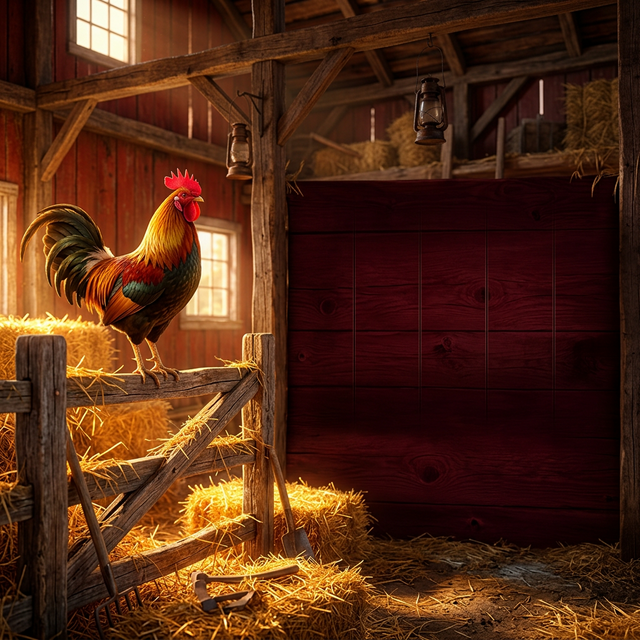
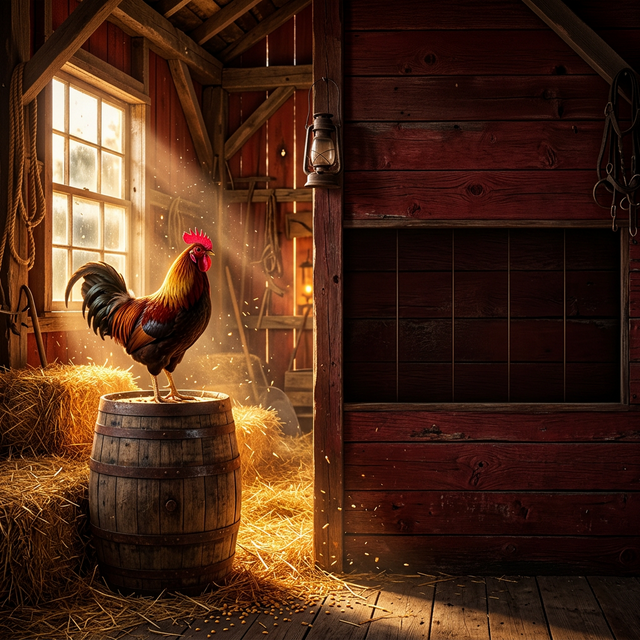
feat(assets): hero visual polish pass beta 3 with new UI controls and VFX

diff --git a/Gamesv1/games/7000/assets/providers/nanobanana/MANIFEST.md b/Gamesv1/games/7000/assets/providers/nanobanana/MANIFEST.md
@@ -1,24 +1,39 @@
-# MANIFEST
+# NanoBanana Provider
 
-Provider root: `Gamesv1/games/7000/assets/providers/nanobanana`
+**Theme:** Crazy Rooster Hold&Win (Beta 3 Hero Polish)
+**Status:** Active Hero Visuals (Partial due to API Quota block on Symbols)
 
-## Runtime Status
+## Manifest
 
-- Source branch: `origin/assets/7000-nanobanana-crazy-rooster-phase1-20260307-1358`
-- Original source path on that branch: `Gamesv1/games/7000/raw-assets/providers/nanobanana`
-- This repo folder is a QA-beta assembly created from those committed source files.
-- `atlas_vfx.png` / `atlas_vfx.json` were not supplied on the source branch and are intentionally absent here.
+This provider pack contains standard layout assets plus the Beta 3 Hero visual upgrades.
 
-## Committed Runtime Files
+### Core Backgrounds
+* `background-desktop-1920x1080.png` (Upgraded to Hero Quality)
+* `background-landscape-safe-1600x900.png` (Upgraded to Hero Quality)
+* `background-portrait-1080x1920.png` (Upgraded to Hero Quality)
 
-- `runtime/background-desktop-1920x1080.png`
-- `runtime/background-landscape-safe-1600x900.png`
-- `runtime/background-portrait-1080x1920.png`
-- `runtime/atlas_symbols.png`
-- `runtime/atlas_symbols.json`
-- `runtime/atlas_ui.png`
-- `runtime/atlas_ui.json`
+### Render Atlases
+#### `atlas_ui` / `atlas_hero_ui`
+UI framing and button controls.
+**New keys added in Beta 3 Hero Pass:**
+* `jackpot-plaque-grand`
+* `jackpot-plaque-major`
+* `jackpot-plaque-minor`
+* `jackpot-plaque-mini`
+* `mascot-rooster`
+* `button-turbo`
+* `button-autoplay`
+* `button-settings`
+* `button-history`
+* `button-sound`
+* `button-buybonus` (Upgraded Hero version)
 
-## Validation Note
+#### `atlas_symbols`
+Slot symbols and collectible entities.
+Contains full fallback keys. (Hero Symbol upgrade blocked by generation quota limits)
 
-The QA runtime should validate this pack at startup and log a clear warning that NanoBanana is missing a committed VFX atlas, then continue with safe placeholder behavior instead of crashing.
+#### `atlas_vfx` / `atlas_hero_vfx`
+Screen effects and particle emitters.
+**New keys added in Beta 3 Hero Pass:**
+* `vfx-hero-glow`
+* `vfx-hero-pulse`
